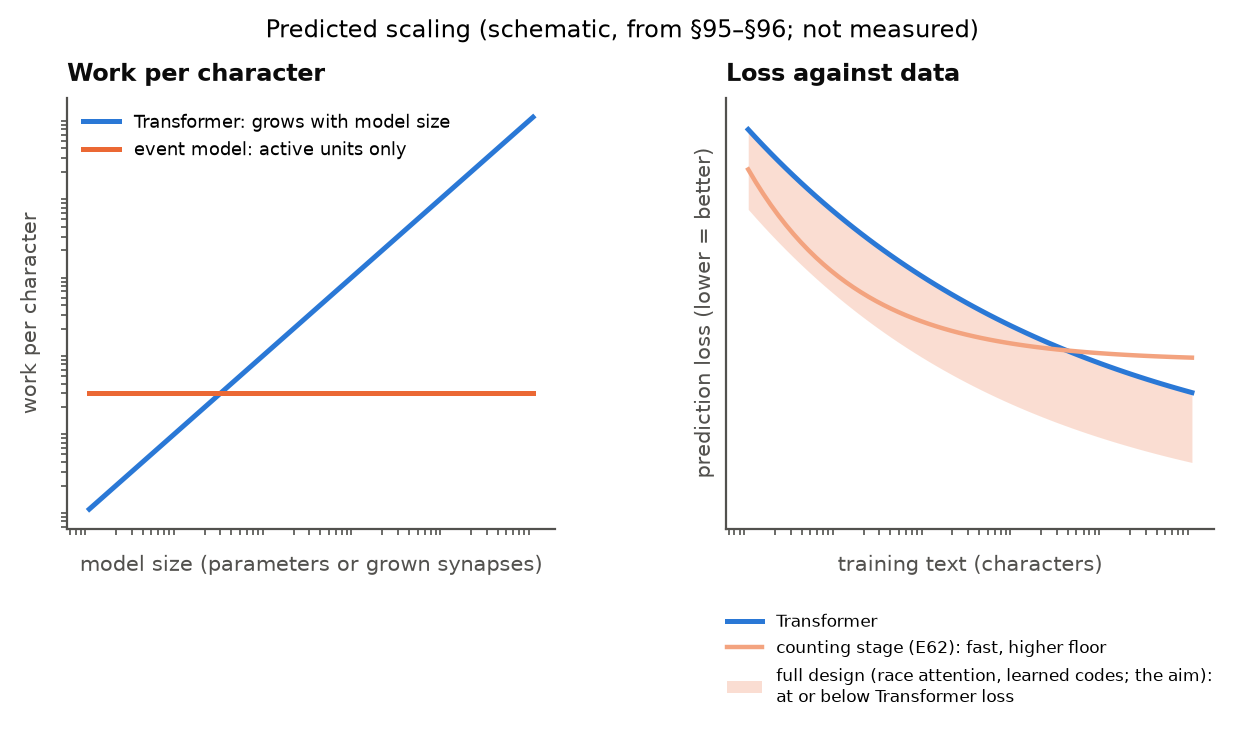
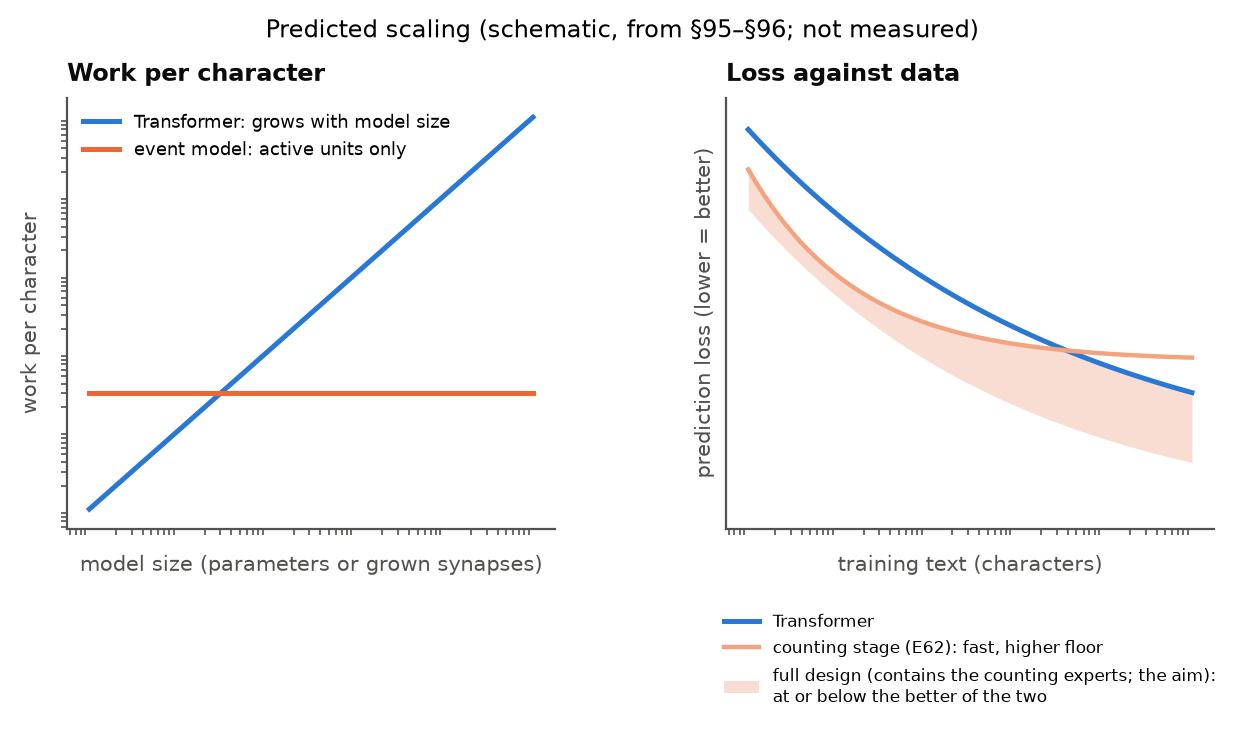
Scaling figure: the full design contains the counting experts, so its band lies below the better of the counting and Transformer curves at every data size (it previously implied it could be worse than counting)

diff --git a/report/figures_mech.py b/report/figures_mech.py
@@ -408,8 +408,10 @@ def fig_lm_scaling():
     a_e = 1.75 + 1.2 * (d / 1e5) ** -0.35
     b.plot(d, a_t, color=DENSE_T, lw=1.8, label="Transformer")
     b.plot(d, a_e, color="#f3a37f", lw=1.6, label="counting stage (E62): fast, higher floor")
-    b.fill_between(d, 0.72 + 2.2 * (d / 1e5) ** -0.14 * 0.9, a_t, color=EVENT, alpha=0.22, lw=0,
-                   label="full design (race attention, learned codes; the aim):\nat or below Transformer loss")
+    upper = np.minimum(a_t, a_e)                   # the full design contains the counting experts: never worse than
+    lower = np.minimum(upper - 0.05, 0.72 + 2.2 * (d / 1e5) ** -0.14 * 0.9)   # either curve; the band starts at their minimum
+    b.fill_between(d, lower, upper, color=EVENT, alpha=0.22, lw=0,
+                   label="full design (contains the counting experts; the aim):\nat or below the better of the two")
     b.set_ylim(0.7, 3.4)
     b.set_xscale("log"); b.set_xticks([]); b.set_yticks([])
     b.set_xlabel("training text (characters)", fontsize=7.5); b.set_ylabel("prediction loss (lower = better)", fontsize=7.5)

diff --git a/REPORT.md b/REPORT.md
@@ -642,7 +642,7 @@ not grow with model size or text length, learned by local rules from less data.
 At each stage: the same text, a recurrent network and a Transformer trained by gradients on the same data, and three
 measures: bits per character, examples needed, and work per character.
 
-![Predicted scaling: work per character stays flat as the model grows; the counting stage has a higher floor; the full design aims at or below Transformer loss](report/figures/lm_scaling.png)
+![Predicted scaling: work per character stays flat as the model grows; the full design contains the counting stage, so it is never worse than it, and aims at or below the better of counting and Transformer at every data size](report/figures/lm_scaling.png)
 
 **What is established and what is not.** Established: the expressive equivalence, the locality of exact credit for
 races, the optimality of the depth bound, learned attention on a recall task, and data efficiency on deep order.
